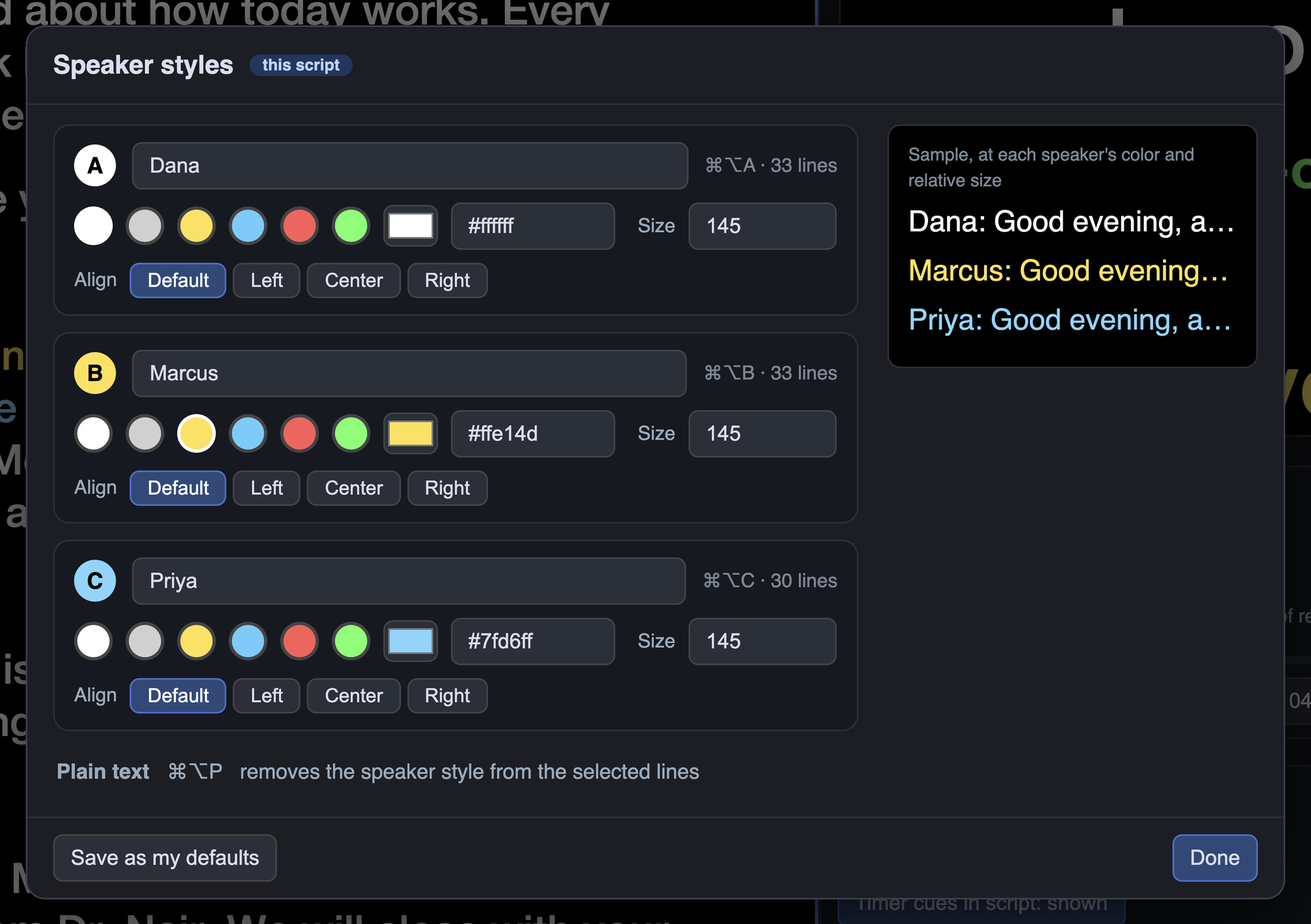
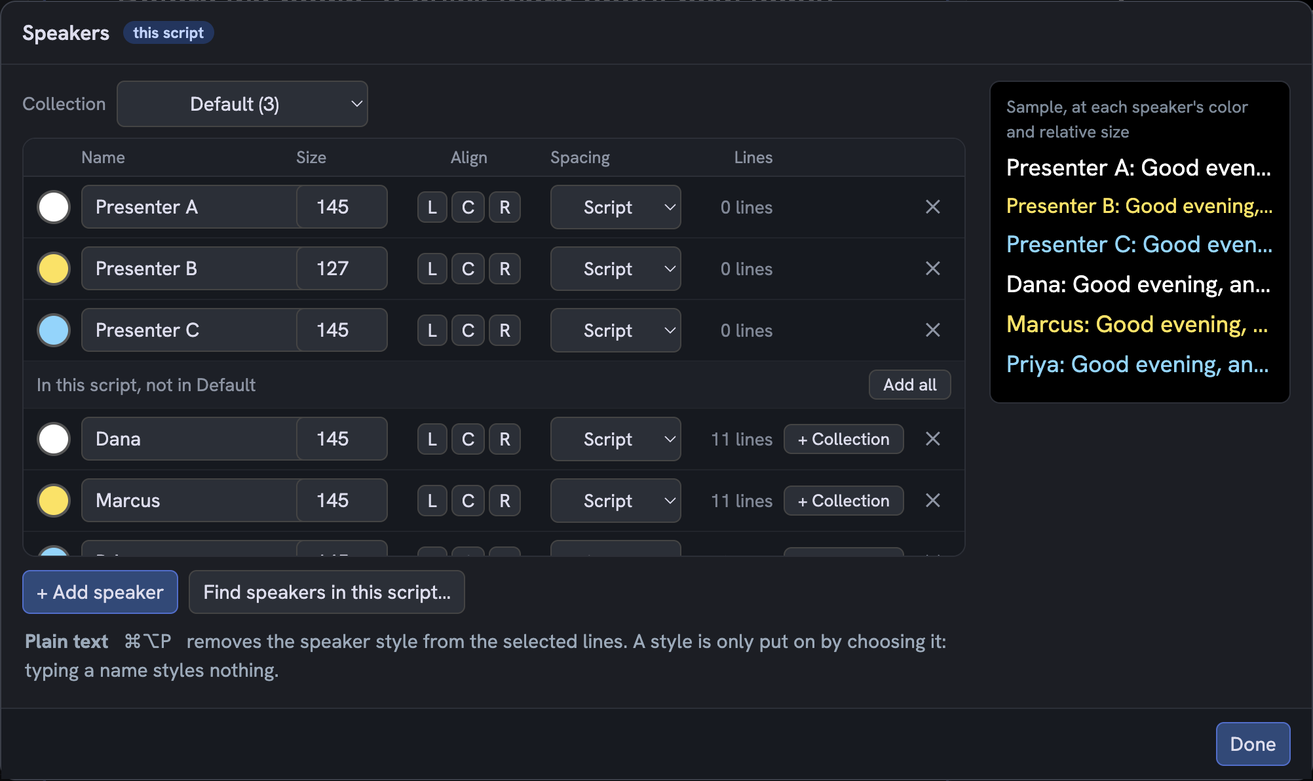
Stage 4, batch 2: new shots for Import & Prep, Prepare, Bring in a new version, pictures, Pronunciations, the Speakers sheet, the cue sheet, and the speaker timer and share panel; a Prepare script card

diff --git a/time-and-cues.html b/time-and-cues.html
@@ -8,6 +8,6 @@
 <div class="readline" aria-hidden="true"><svg viewBox="963 238 262 565"><path fill="currentColor" d="M963 238L1225 521L963 803V606L1042 520L963 434Z"/></svg></div>
 <header class="top"><div class="wrap bar"><a class="logo" href="index.html" aria-label="Cadence Prompt home"><img src="assets/cadence-prompt-horizontal-white.svg" alt="Cadence Prompt" height="34"></a>
 <nav aria-label="Main"><a href="index.html">Home</a><a href="features.html" aria-current="page">Features</a><a href="download.html">Download</a><a href="help.html">Help</a><a href="about.html">About</a><a href="changelog.html">Changelog</a><a href="support.html">Support</a></nav><a class="btn small" href="download.html">Download</a></div></header>
-<main><section class="hero"><div class="wrap"><p class="eyebrow"><a class="crumb" href="features.html">Features</a> / Time and cues · Crew · Presenter</p><h1>Everyone sees where the show is, and what is next.</h1><p class="sub">How much longer do they have? How long did that segment take? Now the whole crew can see for themselves, because timers and cues live in the script and everyone works from the same clock.</p></div></section><section class="wrap stack"><article class="feat"><div><p class="eyebrow">Speaker timer</p><h2>A clock the presenter can trust.</h2><p>The time remaining, the segment name, and an estimate that says plainly whether the segment is running over or under. The presenter never has to do the arithmetic.</p></div><figure class="shotfig"><a href="assets/shots/time-speaker-timer.png"><img src="assets/shots/time-speaker-timer.png" alt="The speaker timer page: the time remaining as a large clock on the right, and on the left the real time, an estimate of 11 seconds under time, Coming up and the pace." loading="lazy"></a></figure></article><article class="feat"><div><p class="eyebrow">Coming up</p><h2>See the next cue before it arrives.</h2><p>A live list of the cues ahead of the reading line, each with the time until it. It moves up as the reading crosses each one, so crew know what is next without reading the script.</p></div><figure class="shotfig"><a href="assets/shots/time-coming-up.png"><img src="assets/shots/time-coming-up.png" alt="Coming up in the operator window: audio, video and general cues, then the CEO keynote timer set and its slides, each with its kind, name and the time until it." loading="lazy"></a></figure></article><article class="feat"><div><p class="eyebrow">Timer cues in the script</p><h2>Timer events fire from the script.</h2><p>Set, start and finish cues sit right in the text. An indicator on the live bar shows how many are armed and turns red if they are off, and pressing Play arms them, so a cue you scroll past starts the clock by itself. Pause disarms them and stops the clock. If a segment finishes with time to spare, the clock stops and turns green.</p></div><figure class="shotfig"><a href="assets/shots/time-timer-cues.png"><img src="assets/shots/time-timer-cues.png" alt="The live bar indicator reading Armed 5 in green and OFF 5 in red, and below it the timer card with a stopped green clock after a segment finished early." loading="lazy"></a></figure></article><article class="feat"><div><p class="eyebrow">Share the speaker timer</p><h2>Put the clock on any screen.</h2><p>Switch on sharing and Cadence lists an address for each network you are on. Crew open it in a browser, with no extra cables or software. The Time remaining half is a clean clock that other systems can use.</p></div><figure class="shotfig"><a href="assets/shots/time-share.png"><img src="assets/shots/time-share.png" alt="The Share on the network panel with its addresses and viewer count, next to the speaker timer page open in a browser." loading="lazy"></a></figure></article><article class="feat"><div><p class="eyebrow">Cue colors</p><h2>Cues you can read from across the room.</h2><p>Video, slides, general, audio and bookmarks each have a color from the start, and you can add custom cues of your own. Change any color to match how your crew already works.</p></div><figure class="shotfig"><a href="assets/shots/time-cue-colors.png"><img src="assets/shots/time-cue-colors.png" alt="The script editor with a bookmark mark and general, audio, slide and video cues each in its own color, above a timer cue and the first lines of the script." loading="lazy"></a></figure></article><article class="feat feat-text"><div><p class="eyebrow">The cue sheet</p><h2>The show as a rundown.</h2><p>View, then Cue sheet, lists every cue in the script as a rundown, and across a runlist, every script. Save it as a PDF or copy it. A stage manager's rundown, made from the script itself.</p></div></article><article class="feat feat-text"><div><p class="eyebrow">Print, PDF and Word</p><h2>A readable copy in a few clicks.</h2><p>Print the script, or save it as a PDF, a Word document or plain text, at a comfortable reading size, in print-safe colors, with each speaker named and page numbers in place. A whole runlist can go out as one PDF.</p></div></article><article class="feat feat-text"><div><p class="eyebrow">Pull the script</p><h2>The crew gets the current script without asking.</h2><p>With sharing on, the crew page has a Pull script button, protected by an Edit PIN, that hands over the script as a PDF, Word or text file on their own phone or laptop. No one has to ask the operator to send a file.</p></div></article><article class="feat feat-text"><div><p class="eyebrow">Cue audiences<span class="badge">Coming soon</span></p><h2>Show each person only what they need.</h2><p>Mark a cue for the crew, the presenter or both, so presenter-only direction stays off the crew's list.</p></div></article></section><section class="wrap cta"><h2>Try it on your next show.</h2><p><a class="btn" href="download.html"><svg class="chev" viewBox="963 238 262 565" aria-hidden="true"><path fill="currentColor" d="M963 238L1225 521L963 803V606L1042 520L963 434Z"/></svg>Download</a></p></section><nav class="pager wrap" aria-label="More features"><a href="run-the-show.html">&larr; Run the show</a><a href="a-better-read.html">A better read &rarr;</a></nav></main>
+<main><section class="hero"><div class="wrap"><p class="eyebrow"><a class="crumb" href="features.html">Features</a> / Time and cues · Crew · Presenter</p><h1>Everyone sees where the show is, and what is next.</h1><p class="sub">How much longer do they have? How long did that segment take? Now the whole crew can see for themselves, because timers and cues live in the script and everyone works from the same clock.</p></div></section><section class="wrap stack"><article class="feat"><div><p class="eyebrow">Speaker timer</p><h2>A clock the presenter can trust.</h2><p>The time remaining, the segment name, and an estimate that says plainly whether the segment is running over or under. The presenter never has to do the arithmetic.</p></div><figure class="shotfig"><a href="assets/shots/time-speaker-timer.png"><img src="assets/shots/time-speaker-timer.png" alt="The speaker timer page: the time remaining as a large clock on the right with the next segment, and on the left the real time, Coming up with the time to each cue, and the pace." loading="lazy"></a></figure></article><article class="feat"><div><p class="eyebrow">Coming up</p><h2>See the next cue before it arrives.</h2><p>A live list of the cues ahead of the reading line, each with the time until it. It moves up as the reading crosses each one, so crew know what is next without reading the script.</p></div><figure class="shotfig"><a href="assets/shots/time-coming-up.png"><img src="assets/shots/time-coming-up.png" alt="Coming up in the operator window: audio, video and general cues, then the CEO keynote timer set and its slides, each with its kind, name and the time until it." loading="lazy"></a></figure></article><article class="feat"><div><p class="eyebrow">Timer cues in the script</p><h2>Timer events fire from the script.</h2><p>Set, start and finish cues sit right in the text. An indicator on the live bar shows how many are armed and turns red if they are off, and pressing Play arms them, so a cue you scroll past starts the clock by itself. Pause disarms them and stops the clock. If a segment finishes with time to spare, the clock stops and turns green.</p></div><figure class="shotfig"><a href="assets/shots/time-timer-cues.png"><img src="assets/shots/time-timer-cues.png" alt="The live bar indicator reading Armed 5 in green and OFF 5 in red, and below it the timer card with a stopped green clock after a segment finished early." loading="lazy"></a></figure></article><article class="feat"><div><p class="eyebrow">Share the speaker timer</p><h2>Put the clock on any screen.</h2><p>Switch on sharing and Cadence lists an address for each network you are on. Crew open it in a browser, with no extra cables or software. The Time remaining half is a clean clock that other systems can use.</p></div><figure class="shotfig"><a href="assets/shots/time-share.png"><img src="assets/shots/time-share.png" alt="The Network tab with Share on the network and the View and Edit PINs, next to the speaker timer page it shares." loading="lazy"></a></figure></article><article class="feat"><div><p class="eyebrow">Cue colors</p><h2>Cues you can read from across the room.</h2><p>Video, slides, general, audio and bookmarks each have a color from the start, and you can add custom cues of your own. Change any color to match how your crew already works.</p></div><figure class="shotfig"><a href="assets/shots/time-cue-colors.png"><img src="assets/shots/time-cue-colors.png" alt="The script editor with a bookmark mark and general, audio, slide and video cues each in its own color, above a timer cue and the first lines of the script." loading="lazy"></a></figure></article><article class="feat feat-text"><div><p class="eyebrow">The cue sheet</p><h2>The show as a rundown.</h2><p>View, then Cue sheet, lists every cue in the script as a rundown, and across a runlist, every script. Save it as a PDF or copy it. A stage manager's rundown, made from the script itself.</p></div></article><article class="feat feat-text"><div><p class="eyebrow">Print, PDF and Word</p><h2>A readable copy in a few clicks.</h2><p>Print the script, or save it as a PDF, a Word document or plain text, at a comfortable reading size, in print-safe colors, with each speaker named and page numbers in place. A whole runlist can go out as one PDF.</p></div></article><article class="feat feat-text"><div><p class="eyebrow">Pull the script</p><h2>The crew gets the current script without asking.</h2><p>With sharing on, the crew page has a Pull script button, protected by an Edit PIN, that hands over the script as a PDF, Word or text file on their own phone or laptop. No one has to ask the operator to send a file.</p></div></article><article class="feat feat-text"><div><p class="eyebrow">Cue audiences<span class="badge">Coming soon</span></p><h2>Show each person only what they need.</h2><p>Mark a cue for the crew, the presenter or both, so presenter-only direction stays off the crew's list.</p></div></article></section><section class="wrap cta"><h2>Try it on your next show.</h2><p><a class="btn" href="download.html"><svg class="chev" viewBox="963 238 262 565" aria-hidden="true"><path fill="currentColor" d="M963 238L1225 521L963 803V606L1042 520L963 434Z"/></svg>Download</a></p></section><nav class="pager wrap" aria-label="More features"><a href="run-the-show.html">&larr; Run the show</a><a href="a-better-read.html">A better read &rarr;</a></nav></main>
 <footer><div class="wrap foot"><span>&copy; 2026 Cadence Prompt</span><span><a href="privacy.html">Privacy</a> · <a href="terms.html">Terms</a> · <a href="mailto:CadencePrompt@gmail.com">CadencePrompt@gmail.com</a></span></div></footer>
 </body></html>

diff --git a/a-better-read.html b/a-better-read.html
@@ -8,6 +8,6 @@
 <div class="readline" aria-hidden="true"><svg viewBox="963 238 262 565"><path fill="currentColor" d="M963 238L1225 521L963 803V606L1042 520L963 434Z"/></svg></div>
 <header class="top"><div class="wrap bar"><a class="logo" href="index.html" aria-label="Cadence Prompt home"><img src="assets/cadence-prompt-horizontal-white.svg" alt="Cadence Prompt" height="34"></a>
 <nav aria-label="Main"><a href="index.html">Home</a><a href="features.html" aria-current="page">Features</a><a href="download.html">Download</a><a href="help.html">Help</a><a href="about.html">About</a><a href="changelog.html">Changelog</a><a href="support.html">Support</a></nav><a class="btn small" href="download.html">Download</a></div></header>
-<main><section class="hero"><div class="wrap"><p class="eyebrow"><a class="crumb" href="features.html">Features</a> / A better read · Presenter</p><h1>The best prompter is the one your presenter never notices.</h1><p class="sub">When the prompter does its job, the presenter connects with the audience instead of the screen. Style, margins, marker and speed are set once per presenter and saved.</p></div></section><section class="wrap stack"><article class="feat"><div><p class="eyebrow">Speaker styles</p><h2>Every speaker in their own style.</h2><p>Give each speaker a name, a color and a size. Lines pick up the style of whoever is speaking, and you can save your choices as the defaults for new scripts.</p></div><figure class="shotfig"><a href="assets/shots/read-speaker-styles.png"><img src="assets/shots/read-speaker-styles.png" alt="The Speaker styles sheet with three speakers, each with a name, color swatches and a size, and a sample preview." loading="lazy"></a></figure></article><article class="feat"><div><p class="eyebrow">The reading marker</p><h2>A marker you can see and a line you can follow.</h2><p>Choose the marker's shape, side, color and size, and where the reading line sits. Save it as your default.</p></div><figure class="shotfig"><a href="assets/shots/read-marker.png"><img src="assets/shots/read-marker.png" alt="The Prompter tab showing the reading line setting, the marker shape tiles, the color swatch and size, and the bookmark color." loading="lazy"></a></figure></article><article class="feat"><div><p class="eyebrow">Margins and alignment</p><h2>Text set where the presenter wants it.</h2><p>Tight, Normal or Wide to start, or your own numbers for the left and right margins. Align the script left, centered or right.</p></div><figure class="shotfig"><a href="assets/shots/read-margins-alignment.png"><img src="assets/shots/read-margins-alignment.png" alt="The Prompter tab with the text size, line spacing, the Normal and Custom margins with left and right numbers, and the settings new scripts start with." loading="lazy"></a></figure></article><article class="feat"><div><p class="eyebrow">Back up smoothly</p><h2>Go backward as easily as forward.</h2><p>Turn the speed past zero and the script scrolls backward, so a presenter can repeat a line without a jump.</p></div><figure class="shotfig"><video autoplay loop muted playsinline controls preload="metadata" poster="assets/shots/read-backward-poster.png" aria-label="The script scrolling forward, then backward, as the speed passes through zero."><source src="assets/shots/read-backward.mp4" type="video/mp4"></video></figure></article><article class="feat feat-text"><div><p class="eyebrow">Pronunciation helper</p><h2>Hard names, said right the first time.</h2><p>Add a respelling for a name once, and it shows with the word in the script, the first time it appears or every time. Your list is kept, for the names and terms that trip people up.</p></div></article><article class="feat feat-text"><div><p class="eyebrow">Per-presenter alignment<span class="badge">Coming soon</span></p><h2>A different alignment for one presenter.</h2><p>Align a selection differently without changing the rest of the script.</p></div></article></section><section class="wrap cta"><h2>Try it on your next show.</h2><p><a class="btn" href="download.html"><svg class="chev" viewBox="963 238 262 565" aria-hidden="true"><path fill="currentColor" d="M963 238L1225 521L963 803V606L1042 520L963 434Z"/></svg>Download</a></p></section><nav class="pager wrap" aria-label="More features"><a href="time-and-cues.html">&larr; Time and cues</a><a href="features.html">All features</a></nav></main>
+<main><section class="hero"><div class="wrap"><p class="eyebrow"><a class="crumb" href="features.html">Features</a> / A better read · Presenter</p><h1>The best prompter is the one your presenter never notices.</h1><p class="sub">When the prompter does its job, the presenter connects with the audience instead of the screen. Style, margins, marker and speed are set once per presenter and saved.</p></div></section><section class="wrap stack"><article class="feat"><div><p class="eyebrow">Speaker styles</p><h2>Every speaker in their own style.</h2><p>Give each speaker a name, a color and a size. Lines pick up the style of whoever is speaking, and you can save your choices as the defaults for new scripts.</p></div><figure class="shotfig"><a href="assets/shots/read-speaker-styles.png"><img src="assets/shots/read-speaker-styles.png" alt="The Speakers sheet: each speaker with a name, color, size, alignment and spacing, the collection they belong to, and a sample at each speaker's color." loading="lazy"></a></figure></article><article class="feat"><div><p class="eyebrow">The reading marker</p><h2>A marker you can see and a line you can follow.</h2><p>Choose the marker's shape, side, color and size, and where the reading line sits. Save it as your default.</p></div><figure class="shotfig"><a href="assets/shots/read-marker.png"><img src="assets/shots/read-marker.png" alt="The Prompter tab showing the reading line setting, the marker shape tiles, the color swatch and size, and the bookmark color." loading="lazy"></a></figure></article><article class="feat"><div><p class="eyebrow">Margins and alignment</p><h2>Text set where the presenter wants it.</h2><p>Tight, Normal or Wide to start, or your own numbers for the left and right margins. Align the script left, centered or right.</p></div><figure class="shotfig"><a href="assets/shots/read-margins-alignment.png"><img src="assets/shots/read-margins-alignment.png" alt="The Prompter tab with the text size, line spacing, the Normal and Custom margins with left and right numbers, and the settings new scripts start with." loading="lazy"></a></figure></article><article class="feat"><div><p class="eyebrow">Back up smoothly</p><h2>Go backward as easily as forward.</h2><p>Turn the speed past zero and the script scrolls backward, so a presenter can repeat a line without a jump.</p></div><figure class="shotfig"><video autoplay loop muted playsinline controls preload="metadata" poster="assets/shots/read-backward-poster.png" aria-label="The script scrolling forward, then backward, as the speed passes through zero."><source src="assets/shots/read-backward.mp4" type="video/mp4"></video></figure></article><article class="feat feat-text"><div><p class="eyebrow">Pronunciation helper</p><h2>Hard names, said right the first time.</h2><p>Add a respelling for a name once, and it shows with the word in the script, the first time it appears or every time. Your list is kept, for the names and terms that trip people up.</p></div></article><article class="feat feat-text"><div><p class="eyebrow">Per-presenter alignment<span class="badge">Coming soon</span></p><h2>A different alignment for one presenter.</h2><p>Align a selection differently without changing the rest of the script.</p></div></article></section><section class="wrap cta"><h2>Try it on your next show.</h2><p><a class="btn" href="download.html"><svg class="chev" viewBox="963 238 262 565" aria-hidden="true"><path fill="currentColor" d="M963 238L1225 521L963 803V606L1042 520L963 434Z"/></svg>Download</a></p></section><nav class="pager wrap" aria-label="More features"><a href="time-and-cues.html">&larr; Time and cues</a><a href="features.html">All features</a></nav></main>
 <footer><div class="wrap foot"><span>&copy; 2026 Cadence Prompt</span><span><a href="privacy.html">Privacy</a> · <a href="terms.html">Terms</a> · <a href="mailto:CadencePrompt@gmail.com">CadencePrompt@gmail.com</a></span></div></footer>
 </body></html>

diff --git a/prep.html b/prep.html
@@ -8,6 +8,6 @@
 <div class="readline" aria-hidden="true"><svg viewBox="963 238 262 565"><path fill="currentColor" d="M963 238L1225 521L963 803V606L1042 520L963 434Z"/></svg></div>
 <header class="top"><div class="wrap bar"><a class="logo" href="index.html" aria-label="Cadence Prompt home"><img src="assets/cadence-prompt-horizontal-white.svg" alt="Cadence Prompt" height="34"></a>
 <nav aria-label="Main"><a href="index.html">Home</a><a href="features.html" aria-current="page">Features</a><a href="download.html">Download</a><a href="help.html">Help</a><a href="about.html">About</a><a href="changelog.html">Changelog</a><a href="support.html">Support</a></nav><a class="btn small" href="download.html">Download</a></div></header>
-<main><section class="hero"><div class="wrap"><p class="eyebrow"><a class="crumb" href="features.html">Features</a> / Prep · Operator · Crew</p><h1>From the writer's file to the prompter, in a fraction of the time.</h1><p class="sub">A whole new script lands the night before, and the crew waits in overtime while it is formatted. Scripts arrive in all kinds of states. Cadence takes the prep off your hands and keeps your own work safe when the rewrite comes.</p></div></section><section class="wrap stack"><article class="feat feat-text"><div><p class="eyebrow">Import & Prep</p><h2>Raw script in, prompter-ready out.</h2><p>Bring in Word, PowerPoint or Keynote notes, PDF, Pages, Google Docs and Slides, or a shared folder on Drive, Dropbox, OneDrive or Box. One click finds the speakers, colors the stage directions and sweeps for cues, and one undo takes the whole run back. A script is ready to rehearse in a fraction of the time.</p></div></article><article class="feat feat-text"><div><p class="eyebrow">Bring in a new version</p><h2>The late rewrite stops costing a re-format.</h2><p>The client keeps editing their own document. When the new version arrives, Cadence shows what they changed, what you changed and what you both did, and your own edits survive. Nothing is applied silently, and Versions keeps every one and can put an earlier one back.</p></div></article><article class="feat feat-text"><div><p class="eyebrow">Pictures in the script</p><h2>A slide's picture, beside its cue.</h2><p>Drop a picture into a line or onto a line of its own, and it scrolls with the words. Slide pictures from a folder put each slide's picture beside its cue, so the operator and the crew see what is on screen. Pictures carry through to Word and PDF.</p></div></article><article class="feat"><div><p class="eyebrow">Script tools</p><h2>Clean up a script in minutes.</h2><p>Convert paragraphs, strip to plain text, and find and replace across the script, while your speaker styles and cues stay untouched.</p></div><figure class="shotfig"><a href="assets/shots/docs-before-after.png"><img src="assets/shots/docs-before-after.png" alt="A pasted script with speaker names and notes typed inline, next to the same passage cleaned up, with colored speakers and cues." loading="lazy"></a></figure></article></section><section class="wrap cta"><h2>Try it on your next show.</h2><p><a class="btn" href="download.html"><svg class="chev" viewBox="963 238 262 565" aria-hidden="true"><path fill="currentColor" d="M963 238L1225 521L963 803V606L1042 520L963 434Z"/></svg>Download</a></p></section><nav class="pager wrap" aria-label="More features"><span></span><a href="run-the-show.html">Run the show &rarr;</a></nav></main>
+<main><section class="hero"><div class="wrap"><p class="eyebrow"><a class="crumb" href="features.html">Features</a> / Prep · Operator · Crew</p><h1>From the writer's file to the prompter, in a fraction of the time.</h1><p class="sub">A whole new script lands the night before, and the crew waits in overtime while it is formatted. Scripts arrive in all kinds of states. Cadence takes the prep off your hands and keeps your own work safe when the rewrite comes.</p></div></section><section class="wrap stack"><article class="feat feat-text"><div><p class="eyebrow">Import & Prep</p><h2>Raw script in, prompter-ready out.</h2><p>Bring in Word, PowerPoint or Keynote notes, PDF, Pages, Google Docs and Slides, or a shared folder on Drive, Dropbox, OneDrive or Box. One click finds the speakers, colors the stage directions and sweeps for cues, and one undo takes the whole run back. A script is ready to rehearse in a fraction of the time.</p></div></article><article class="feat feat-text"><div><p class="eyebrow">Prepare script</p><h2>One click, one undo.</h2><p>Prepare walks a script through six steps: set aside the production lines, clean up the spacing, find the speakers, color the stage directions and sweep for cues. Apply the sure ones all at once or look at each. Client profiles remember your choices for each client, and one undo takes the whole run back.</p></div></article><article class="feat feat-text"><div><p class="eyebrow">Bring in a new version</p><h2>The late rewrite stops costing a re-format.</h2><p>The client keeps editing their own document. When the new version arrives, Cadence shows what they changed, what you changed and what you both did, and your own edits survive. Nothing is applied silently, and Versions keeps every one and can put an earlier one back.</p></div></article><article class="feat feat-text"><div><p class="eyebrow">Pictures in the script</p><h2>A slide's picture, beside its cue.</h2><p>Drop a picture into a line or onto a line of its own, and it scrolls with the words. Slide pictures from a folder put each slide's picture beside its cue, so the operator and the crew see what is on screen. Pictures carry through to Word and PDF.</p></div></article><article class="feat"><div><p class="eyebrow">Script tools</p><h2>Clean up a script in minutes.</h2><p>Convert paragraphs, strip to plain text, and find and replace across the script, while your speaker styles and cues stay untouched.</p></div><figure class="shotfig"><a href="assets/shots/docs-before-after.png"><img src="assets/shots/docs-before-after.png" alt="A pasted script with speaker names and notes typed inline, next to the same passage cleaned up, with colored speakers and cues." loading="lazy"></a></figure></article></section><section class="wrap cta"><h2>Try it on your next show.</h2><p><a class="btn" href="download.html"><svg class="chev" viewBox="963 238 262 565" aria-hidden="true"><path fill="currentColor" d="M963 238L1225 521L963 803V606L1042 520L963 434Z"/></svg>Download</a></p></section><nav class="pager wrap" aria-label="More features"><span></span><a href="run-the-show.html">Run the show &rarr;</a></nav></main>
 <footer><div class="wrap foot"><span>&copy; 2026 Cadence Prompt</span><span><a href="privacy.html">Privacy</a> · <a href="terms.html">Terms</a> · <a href="mailto:CadencePrompt@gmail.com">CadencePrompt@gmail.com</a></span></div></footer>
 </body></html>

diff --git a/build.py b/build.py
@@ -51,6 +51,9 @@ PILLARS = [
             ('Import & Prep', 'Raw script in, prompter-ready out.',
              'Bring in Word, PowerPoint or Keynote notes, PDF, Pages, Google Docs and Slides, or a shared folder on Drive, Dropbox, OneDrive or Box. One click finds the speakers, colors the stage directions and sweeps for cues, and one undo takes the whole run back. A script is ready to rehearse in a fraction of the time.',
              '', 'live'),
+            ('Prepare script', 'One click, one undo.',
+             'Prepare walks a script through six steps: set aside the production lines, clean up the spacing, find the speakers, color the stage directions and sweep for cues. Apply the sure ones all at once or look at each. Client profiles remember your choices for each client, and one undo takes the whole run back.',
+             '', 'live'),
             ('Bring in a new version', 'The late rewrite stops costing a re-format.',
              'The client keeps editing their own document. When the new version arrives, Cadence shows what they changed, what you changed and what you both did, and your own edits survive. Nothing is applied silently, and Versions keeps every one and can put an earlier one back.',
              '', 'live'),
@@ -160,12 +163,12 @@ PILLARS = [
 # Real screenshots, by feature title: (file in assets/shots, alt text). A feature with no entry keeps its placeholder.
 # All were captured from the app with a fictional sample script; see docs/screenshots in the Cadence repo.
 SHOTS = {
-    "Speaker timer": ("time-speaker-timer.png", "The speaker timer page: the time remaining as a large clock on the right, and on the left the real time, an estimate of 11 seconds under time, Coming up and the pace."),
+    "Speaker timer": ("time-speaker-timer.png", "The speaker timer page: the time remaining as a large clock on the right with the next segment, and on the left the real time, Coming up with the time to each cue, and the pace."),
     "Coming up": ("time-coming-up.png", "Coming up in the operator window: audio, video and general cues, then the CEO keynote timer set and its slides, each with its kind, name and the time until it."),
     "Timer cues in the script": ("time-timer-cues.png", "The live bar indicator reading Armed 5 in green and OFF 5 in red, and below it the timer card with a stopped green clock after a segment finished early."),
-    "Share the speaker timer": ("time-share.png", "The Share on the network panel with its addresses and viewer count, next to the speaker timer page open in a browser."),
+    "Share the speaker timer": ("time-share.png", "The Network tab with Share on the network and the View and Edit PINs, next to the speaker timer page it shares."),
     "Cue colors": ("time-cue-colors.png", "The script editor with a bookmark mark and general, audio, slide and video cues each in its own color, above a timer cue and the first lines of the script."),
-    "Speaker styles": ("read-speaker-styles.png", "The Speaker styles sheet with three speakers, each with a name, color swatches and a size, and a sample preview."),
+    "Speaker styles": ("read-speaker-styles.png", "The Speakers sheet: each speaker with a name, color, size, alignment and spacing, the collection they belong to, and a sample at each speaker's color."),
     "The reading marker": ("read-marker.png", "The Prompter tab showing the reading line setting, the marker shape tiles, the color swatch and size, and the bookmark color."),
     "Margins and alignment": ("read-margins-alignment.png", "The Prompter tab with the text size, line spacing, the Normal and Custom margins with left and right numbers, and the settings new scripts start with."),
     "Back up smoothly": ("read-backward.mp4", "The script scrolling forward, then backward, as the speed passes through zero."),
@@ -173,6 +176,12 @@ SHOTS = {
     "Command palette": ("show-palette.png", "The command palette open with find typed, listing the find commands, with their shortcuts."),
     "Organized controls": ("show-ribbon-timer.png", "The operator window with the Timer tab open at the left, beside the script, the preview and the timer card."),
     "Any display setup": ("show-display-checklist.png", "The Show tab with the Auto, Extended and Mirrored display buttons, beside the Before you go live checklist."),
+    "Import & Prep": ("prep-import-window.png", "The Import & Prep window with a raw client script pasted in: speaker names typed inline, notes in brackets and uneven spacing, with the steps Text, Prepare and Check along the top."),
+    "Prepare script": ("prep-prepare-window.png", "The Prepare step of the Import & Prep window: six steps along the top, the step Clean up spacing with what it does, what to look at and its choices, and Apply and Next at the bottom."),
+    "Bring in a new version": ("prep-new-version.png", "The Bring in a new version screen listing the client's changes, each marked Theirs or Same, with your script, the client's change and the result side by side."),
+    "Pictures in the script": ("prep-pictures.png", "A slide's picture on a line of its own in the script, with the words of the script above and below it."),
+    "Pronunciation helper": ("read-pronunciations.png", "The Pronunciations dialog."),
+    "The cue sheet": ("time-cue-sheet.png", "The cue sheet: every cue of the script as a row with its planned time, kind and name, tick boxes, and segments with the pace they need."),
     "Script tools": ("docs-before-after.png", "A pasted script with speaker names and notes typed inline, next to the same passage cleaned up, with colored speakers and cues."),
 }
 
